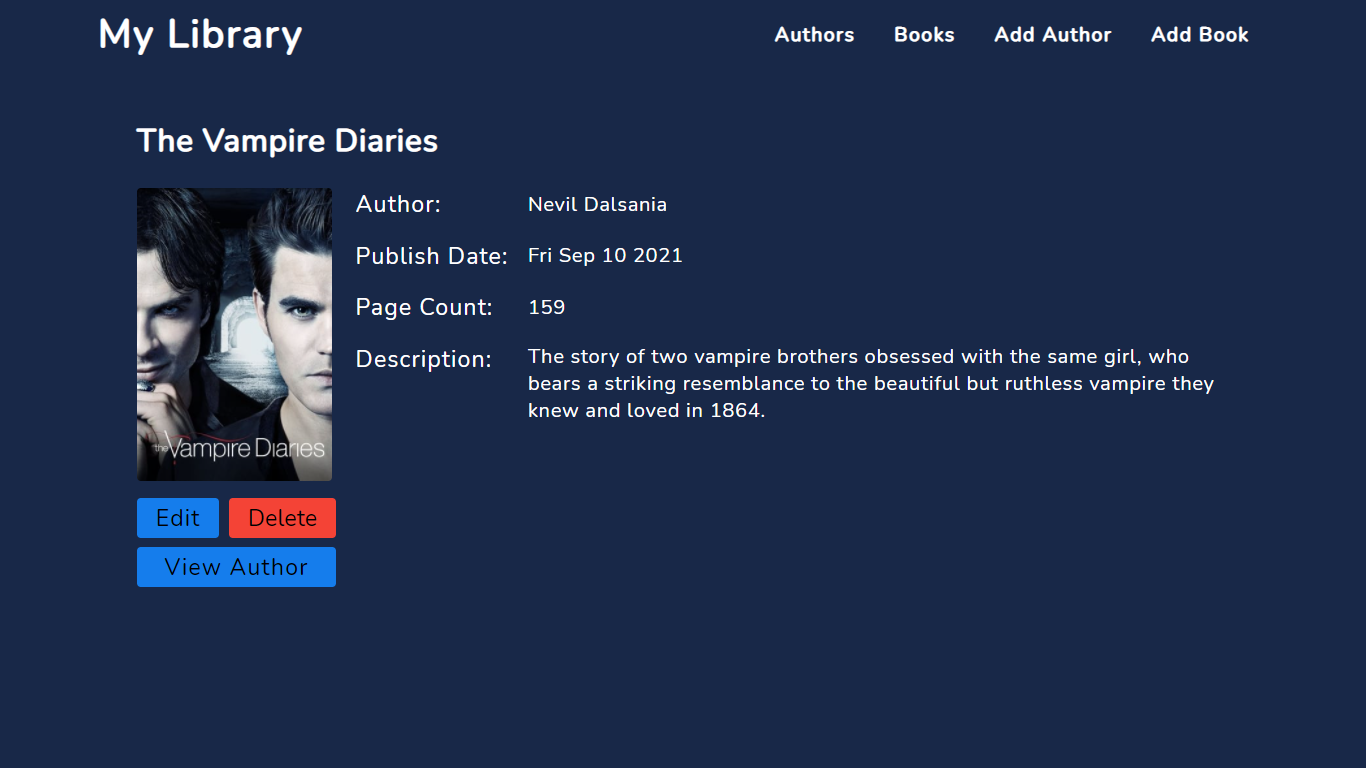
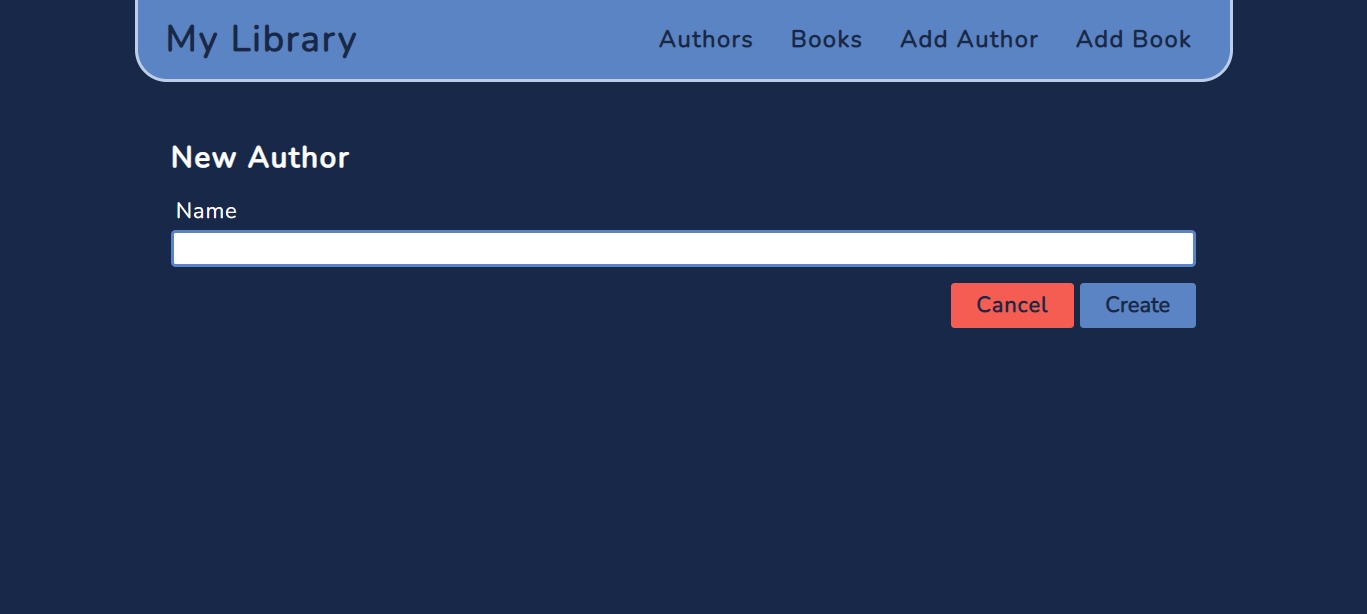
Updated

Changed region(s): [[0.0615, 0.0, 0.9224, 0.7736], [0.369, 0.2476, 0.4919, 0.2785]]

diff --git a/public/css/shared/header.css b/public/css/shared/header.css
@@ -1,7 +1,7 @@
-
-
 .header-title{
     color: var(--color-text-light);
+    color: #182848;
+    margin-left: 10px;
     text-decoration: none;
     font-size: 2rem;
     font-weight: 600;
@@ -15,6 +15,13 @@
     justify-content: space-between;
     align-items: center;
     margin-bottom: 3rem;
+    height: 90px;
+    padding:0px 20px;
+    border-bottom-left-radius: 35px;
+    border-bottom-right-radius: 35px;
+    background-color: #5b84c4;
+    border: 4px solid rgba(255, 255, 255, 0.6);
+    border-top: 0;
 }
 
 .header-nav ul{
@@ -28,12 +35,13 @@
 .header-nav ul a{
     text-decoration: none;
     color: var(--color-text-light);
-    padding: 1rem;
+    color: #182848;
+    font-size: 1.3rem;
+    padding: 0.5rem 1rem;
     font-weight: 600;
     letter-spacing: 1.5px;
     transition: all 0.3s ease-in-out;
 }
 .header-nav li a:hover, .header-title:hover{
-    color: black;
-    
+    color: rgba(255, 255, 255, 0.8);
 }

diff --git a/public/css/shared/buttons.css b/public/css/shared/buttons.css
@@ -1,24 +1,25 @@
-
-
 .btn{
     border: none;
     outline: none;
     border-radius: 4px;
-    padding: 0.2rem 0.8em;
+    padding: 0.4rem 1.4rem;
     font-size: 1.2rem;
     font-family: 'Nunito', sans-serif;
     cursor: pointer;
     text-align: center;
     text-decoration: none;
+    margin-top: 8px;
 }
 
 .btn-primary{
-    color: black;
-    background-color: #157DEC;
+    color: #182848;
+    font-weight: bold;
+    background-color: #5b84c4;
 }
 .btn-danger{
-    color: black;
-    background-color: #f44336;
+    color: #182848;
+    font-weight: bold;
+    background-color: #f65d52;
 }
 
 .button-row{

diff --git a/public/css/shared/books.css b/public/css/shared/books.css
@@ -1,17 +1,25 @@
 
 .book-cover{
-    width: 200px;
+    width: 240px;
+    border-radius: 8px;
+    border: 4px solid #4682b4;
 }
 
 .book-cover-large{
     width: 280px;
+    border-radius: 8px;
+    border: 4px solid #4682b4;
+    transition: all 250ms ease-out;
+}
+.book-cover-large:hover{
+    transform: scale(1.05);
 }
 
 .book-grid{
     display: grid;
     justify-content: center;
     grid-gap: 2rem;
-    grid-template-columns: repeat(auto-fill,200px);
+    grid-template-columns: repeat(auto-fill,240px);
 }
 .book-grid-large{
     grid-template-columns: repeat(auto-fill,325px);

diff --git a/public/css/index.css b/public/css/index.css
@@ -19,12 +19,14 @@
 
 *,*::before,*::after{
     box-sizing: border-box;
+    margin: 0;
+    padding: 0;
 }
 
 body{
     background: #182848; 
     /* background: -webkit-linear-gradient(to left, #182848, #4b6cb7);  
-    background: linear-gradient(to right, #182848, #4b6cb7);  */
+    background: linear-gradient(to right, #182848, #4b6cb7);  */    
 }
 
 .container{
@@ -40,6 +42,8 @@ body{
 .page-header{
     font-size: 1.6rem;
     font-weight: 600;
+    margin-bottom: 1rem;
+    letter-spacing: 2px;
 }
 
 .error-message{

diff --git a/public/css/shared/form.css b/public/css/shared/form.css
@@ -31,8 +31,8 @@
     outline:none;
     height: 2rem;
     padding: .25rem .5rem;
-    border-radius: 4px;
-    border: none;
+    border-radius: 5px;
+    border: 4px solid #5b84c4;
     font-size: 1rem;
     font-family: 'Nunito', sans-serif;
 }

diff --git a/README.md b/README.md
@@ -1,16 +1,16 @@
 # MyLibrary
 A Libray App in nodejs and expressjs.
 
-<img src="https://github.com/Nevilkumar/MyLibrary/blob/main/Readme_Images/1.png" />
-
-<img src="https://github.com/Nevilkumar/MyLibrary/blob/main/Readme_Images/2.png" />
-
-<img src="https://github.com/Nevilkumar/MyLibrary/blob/main/Readme_Images/3.png" />
-
-<img src="https://github.com/Nevilkumar/MyLibrary/blob/main/Readme_Images/4.png" />
-
-<img src="https://github.com/Nevilkumar/MyLibrary/blob/main/Readme_Images/5.png" />
-
-<img src="https://github.com/Nevilkumar/MyLibrary/blob/main/Readme_Images/6.png" />
-
-<img src="https://github.com/Nevilkumar/MyLibrary/blob/main/Readme_Images/7.png" />
+<img src="Readme_Images/1.png" />
+&nbsp;
+<img src="Readme_Images/2.png" />
+&nbsp;
+<img src="Readme_Images/3.png" />
+&nbsp;
+<img src="Readme_Images/4.png" />
+&nbsp;
+<img src="Readme_Images/5.png" />
+&nbsp;
+<img src="Readme_Images/6.png" />
+&nbsp;
+<img src="Readme_Images/7.png" />
